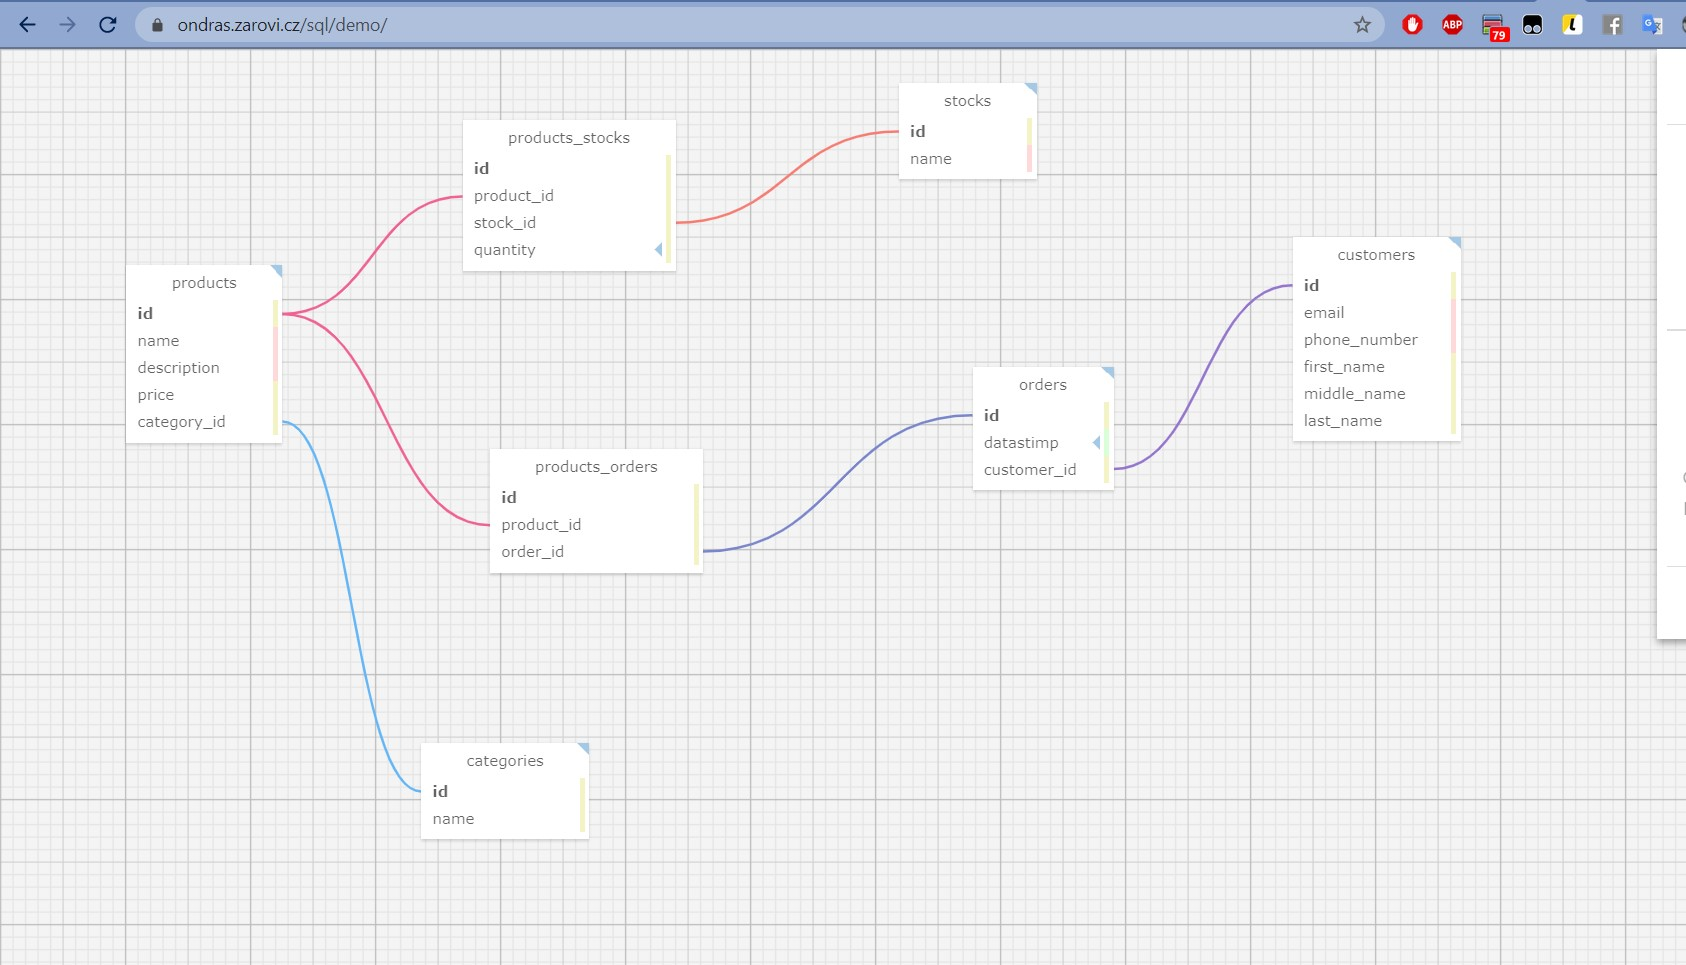
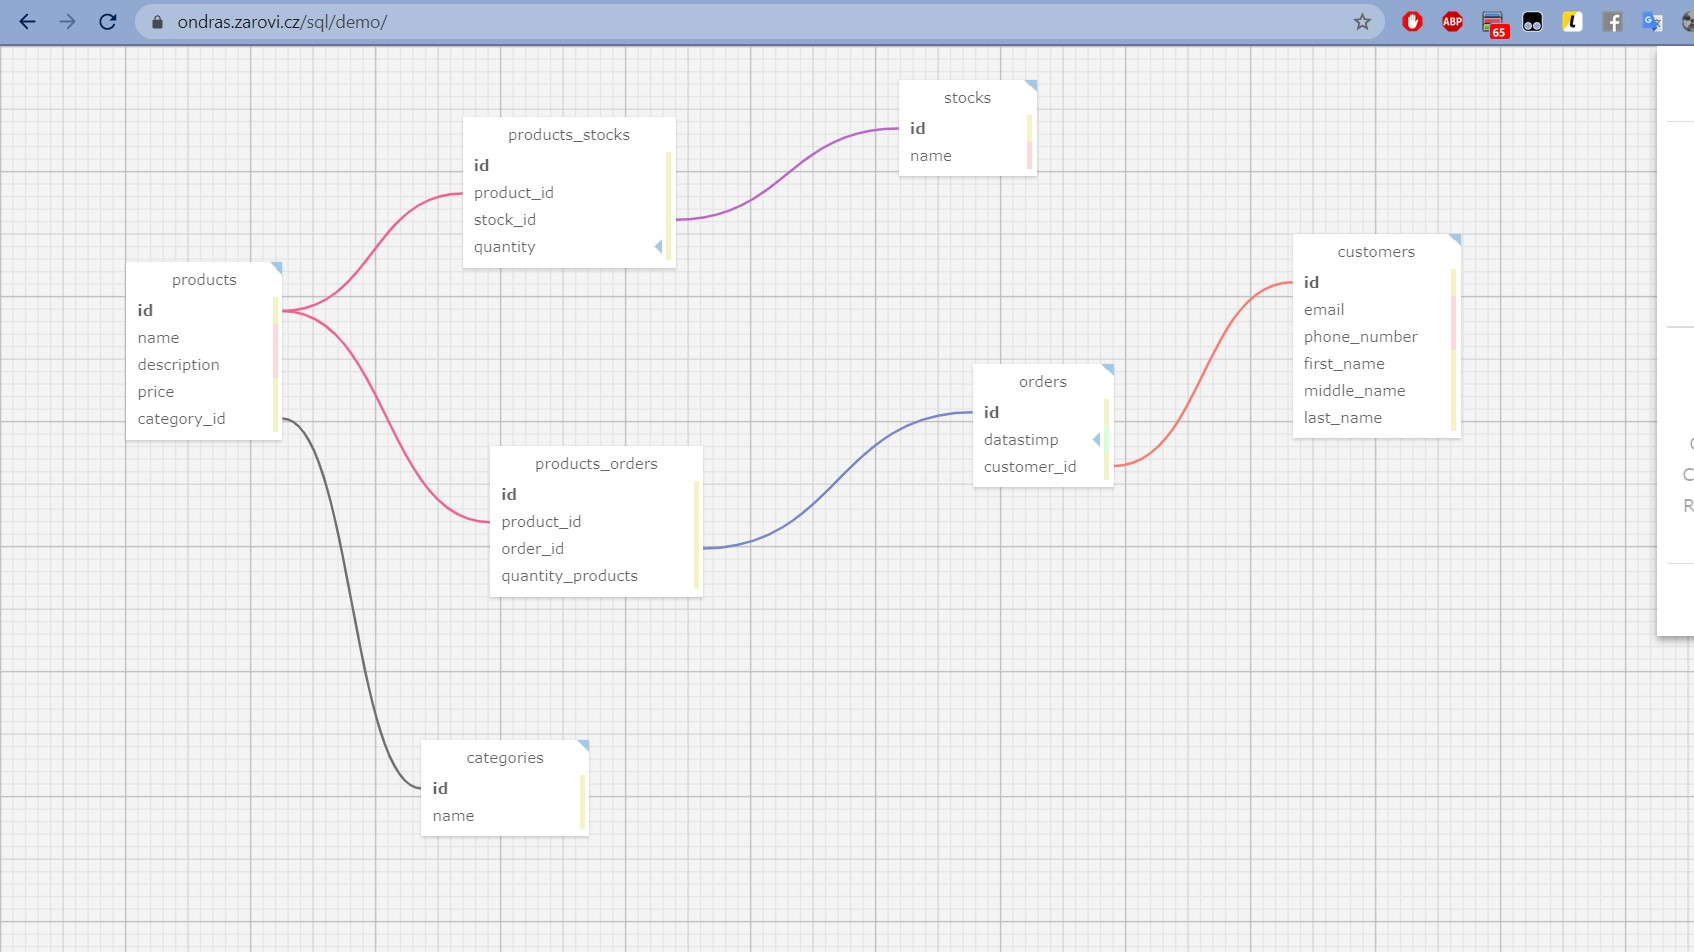
Change database design: add quantity_products for products_order table. Done order functionaloty. Soon will add freezing price for client. Change for one stock yet.

diff --git a/online_store/app/Http/Controllers/API/OrderController.php b/online_store/app/Http/Controllers/API/OrderController.php
@@ -9,6 +9,7 @@ use App\Product;
 use App\Order; 
 use App\Customer; 
 use App\Products_Stocks; 
+use App\Products_Orders; 
 
 class OrderController extends BaseController
 {
@@ -19,28 +20,7 @@ class OrderController extends BaseController
      * @return \Illuminate\Http\Response
      */
     public function order(Request $request)
-    {    
-     
-        $products = Product::find([1,4,18]);
-        $quantityes = [1,1,1];         
-        foreach($products as $key=>$product){
-            $checkStock = false;
-            $q_now=0; //Временная переменая, максимальное количество на складе конкретного товара. Складов несколько
-            $pr_stocks = $product->products_stocks;
-            foreach($pr_stocks as $stock){
-                if($stock->checksQuantityForbuy($quantityes[$key])){
-                    $checkStock = true;                   
-                }
-                if($q_now < $stock->quantity){
-                    $q_now =  $stock->quantity;
-                }               
-            }
-            if($checkStock == false){
-                return $this->sendError(['Доступный остаток на складе для товара '.$product->name => $q_now ], 'Невозможно заказать указанный товар,так как он кончился на складе.');
-            }
-        }
-
-
+    {   
       $input = $request->all();
         $validator = Validator::make($input, [
             'products' => 'required',
@@ -54,37 +34,64 @@ class OrderController extends BaseController
 
         if($validator->fails()){
             return $this->sendError('Validation Error.', $validator->errors());       
+        } 
+       $products = Product::find(json_decode($request->products));
+        $quantityes = json_decode($request->quantity);  
+        
+        //Проверка наличие всех товаров на складе, в случае отстутвия вернёт ошибку с указанием товара
+        foreach($products as $key=>$product){
+            $checkStock = false;
+            $q_now=0; //Временная переменая, максимальное количество на складе конкретного товара. Складов несколько
+            $pr_stocks = $product->products_stocks;
+            //Реализовано для возможности добавления дополнительных складов, на будущее
+            //Пока код актуален для одного склада
+            foreach($pr_stocks as $stock){
+                if($stock->checksQuantityForbuy($quantityes[$key])){
+                    $checkStock = true;                   
+                }
+                if($q_now < $stock->quantity){
+                    $q_now =  $stock->quantity;
+                }               
+            }
+            if($checkStock == false){
+                return $this->sendError(['Доступный остаток на складе для товара (id: '.$product->id.') '.$product->name => $q_now ], 'Невозможно заказать указанный товар,так как он кончился на складе.');
+            }
         }
-  
-        $customer = Customer::firstOrCreate([
+
+        DB::transaction(function() use ($products,$quantityes,$request)
+        {
+            $customer = Customer::firstOrCreate([
                 'email' => $request->email, 
                 'phone_number' => $request->phone_number,
                 'first_name' => $request->first_name,  
                 'middle_name' => $request->middle_name,   
                 'last_name' => $request->last_name,    
-        ]);
-
-        $products = Product::find(json_decode($request->products));
-
-       $quantity = json_decode($request->quantity);
-        foreach($products as $key=>$value){
-          //  Products_Stocks::find();
-        }
- 
-       // $products_stocks = Products_Stocks
-       // dd($products);
-
-       /* $order = Order::create([
-            'first_name' => $request->first_name, 
-            'last_name' => $request->last_name,
-            'email' => $request->email,   
             ]);
-        $order->products()->sync($products);   */
+            $order = Order::create([
+                'customer_id' => $customer->id,
+            ]);
+            foreach($products as $key=>$product){               
+                $pr_stocks = $product->products_stocks;
+                foreach($pr_stocks as $stock){
+                    if($stock->quantity){
+                        $stock->quantity = $stock->quantity - $quantityes[$key];
+                        $product->products_stocks[0]->save();
+                        $product->save();   
+                    }            
+                }
+                //со складом решить и с множеством заказов
+                $products_orders = Products_Orders::create([
+                    'product_id' => $product->id,
+                    'order_id' => $order->id,
+                    'quantity_products' => $quantityes[$key],
+                ]);
 
+                if( !$products_orders )
+                {
+                    throw new \Exception('Не удалось добавить заказ');
+                }
+            }
+       });
        return $this->sendResponse($products->toArray(), 'Заказ  '.$request->last_name.' '.$request->first_name.' успешно добавлен.');
- 
-
-
-
-    }
+     }
 }

diff --git a/online_store/database/seeds/ProductsStocksSeeder.php b/online_store/database/seeds/ProductsStocksSeeder.php
@@ -19,28 +19,18 @@ class ProductsStocksSeeder extends Seeder
             'quantity' => rand(0, 4),  
         ]);
         DB::table('products_stocks')->insert([
-            'product_id' => 1, 
-            'stock_id' => 2,  
-            'quantity' => 2,  
-        ]);
-        DB::table('products_stocks')->insert([
-            'product_id' => 1, 
-            'stock_id' => 3,  
-            'quantity' => 15,  
-        ]);
-        DB::table('products_stocks')->insert([
             'product_id' => 2, 
-            'stock_id' => 2,  
+            'stock_id' => 1,  
             'quantity' => rand(0, 4),  
         ]);
         DB::table('products_stocks')->insert([
             'product_id' => 3, 
-            'stock_id' => 3,  
+            'stock_id' => 1,  
             'quantity' => rand(0, 4),    
         ]);
         DB::table('products_stocks')->insert([
             'product_id' => 4, 
-            'stock_id' => 2,  
+            'stock_id' => 1,  
             'quantity' => rand(0, 15),  
         ]);
         DB::table('products_stocks')->insert([
@@ -50,7 +40,7 @@ class ProductsStocksSeeder extends Seeder
         ]);
         DB::table('products_stocks')->insert([
             'product_id' => 6, 
-            'stock_id' => 3,  
+            'stock_id' => 1,  
             'quantity' => rand(0, 4),  
         ]);
         DB::table('products_stocks')->insert([
@@ -60,12 +50,12 @@ class ProductsStocksSeeder extends Seeder
         ]);
         DB::table('products_stocks')->insert([
             'product_id' => 8, 
-            'stock_id' => 2,  
+            'stock_id' => 1,  
             'quantity' => 0,   
         ]);
         DB::table('products_stocks')->insert([
             'product_id' => 9, 
-            'stock_id' => 3,  
+            'stock_id' => 1,  
             'quantity' => rand(0, 4),  
         ]);
         DB::table('products_stocks')->insert([
@@ -75,32 +65,32 @@ class ProductsStocksSeeder extends Seeder
         ]);
         DB::table('products_stocks')->insert([
             'product_id' => 11, 
-            'stock_id' => 2,  
+            'stock_id' => 1,  
             'quantity' => rand(0, 4),  
         ]);
         DB::table('products_stocks')->insert([
             'product_id' => 12, 
-            'stock_id' => 3,  
+            'stock_id' => 1,  
             'quantity' => rand(0, 4),  
         ]);
         DB::table('products_stocks')->insert([
             'product_id' => 13, 
-            'stock_id' => 2,  
+            'stock_id' => 1,  
             'quantity' => rand(0, 4),     
         ]);
         DB::table('products_stocks')->insert([
             'product_id' => 14, 
-            'stock_id' => 3,  
+            'stock_id' => 1,  
             'quantity' => rand(0, 4),  
         ]);
         DB::table('products_stocks')->insert([
             'product_id' => 15, 
-            'stock_id' => 3,  
+            'stock_id' => 1,  
             'quantity' => rand(0, 100),  
         ]);
         DB::table('products_stocks')->insert([
             'product_id' => 16, 
-            'stock_id' => 2,  
+            'stock_id' => 1,  
             'quantity' => rand(0, 4),  
         ]);
         DB::table('products_stocks')->insert([
@@ -110,12 +100,12 @@ class ProductsStocksSeeder extends Seeder
         ]);
         DB::table('products_stocks')->insert([
             'product_id' => 18, 
-            'stock_id' => 2,  
+            'stock_id' => 1,  
             'quantity' => rand(0, 4),   
         ]);
         DB::table('products_stocks')->insert([
             'product_id' => 19, 
-            'stock_id' => 3,  
+            'stock_id' => 1,  
             'quantity' => rand(0, 4),   
         ]);
  

diff --git a/online_store/database/migrations/2020_07_25_142405_create_products_orders_table.php b/online_store/database/migrations/2020_07_25_142405_create_products_orders_table.php
@@ -16,7 +16,8 @@ class CreateProductsOrdersTable extends Migration
         Schema::create('products_orders', function (Blueprint $table) {
             $table->id();
             $table->unsignedBigInteger('product_id');         
-            $table->unsignedBigInteger('order_id');    
+            $table->unsignedBigInteger('order_id');   
+            $table->integer('quantity_products'); //Количество продукта в заказе
             $table->timestamps();
         });
 

diff --git a/online_store/app/Order.php b/online_store/app/Order.php
@@ -7,7 +7,15 @@ use Illuminate\Database\Eloquent\Model;
 class Order extends Model
 {
     protected $table = 'orders';
-    
+    /**
+     * The attributes that are mass assignable.
+     *
+     * @var array
+     */
+    protected $fillable = [
+        'customer_id'
+    ];
+
     public function customer(){
         return $this->belongsTo('App\Customer', 'customer_id');
     }

diff --git a/online_store/database/seeds/StockSeeder.php b/online_store/database/seeds/StockSeeder.php
@@ -16,11 +16,5 @@ class StockSeeder extends Seeder
         DB::table('stocks')->insert([
             'name' => "Склад №1.",  
         ]);
-        DB::table('stocks')->insert([
-            'name' => "Склад №2.",  
-        ]);
-        DB::table('stocks')->insert([
-            'name' => "Склад №3.",  
-        ]);
     }
 }

diff --git a/online_store/app/Products_Orders.php b/online_store/app/Products_Orders.php
@@ -7,4 +7,15 @@ use Illuminate\Database\Eloquent\Model;
 class Products_Orders extends Model
 {
     protected $table = 'products_orders';
+    
+     /**
+     * The attributes that are mass assignable.
+     *
+     * @var array
+     */
+    protected $fillable = [
+        'product_id', 'order_id','quantity_products'
+    ];
+
+
 }
